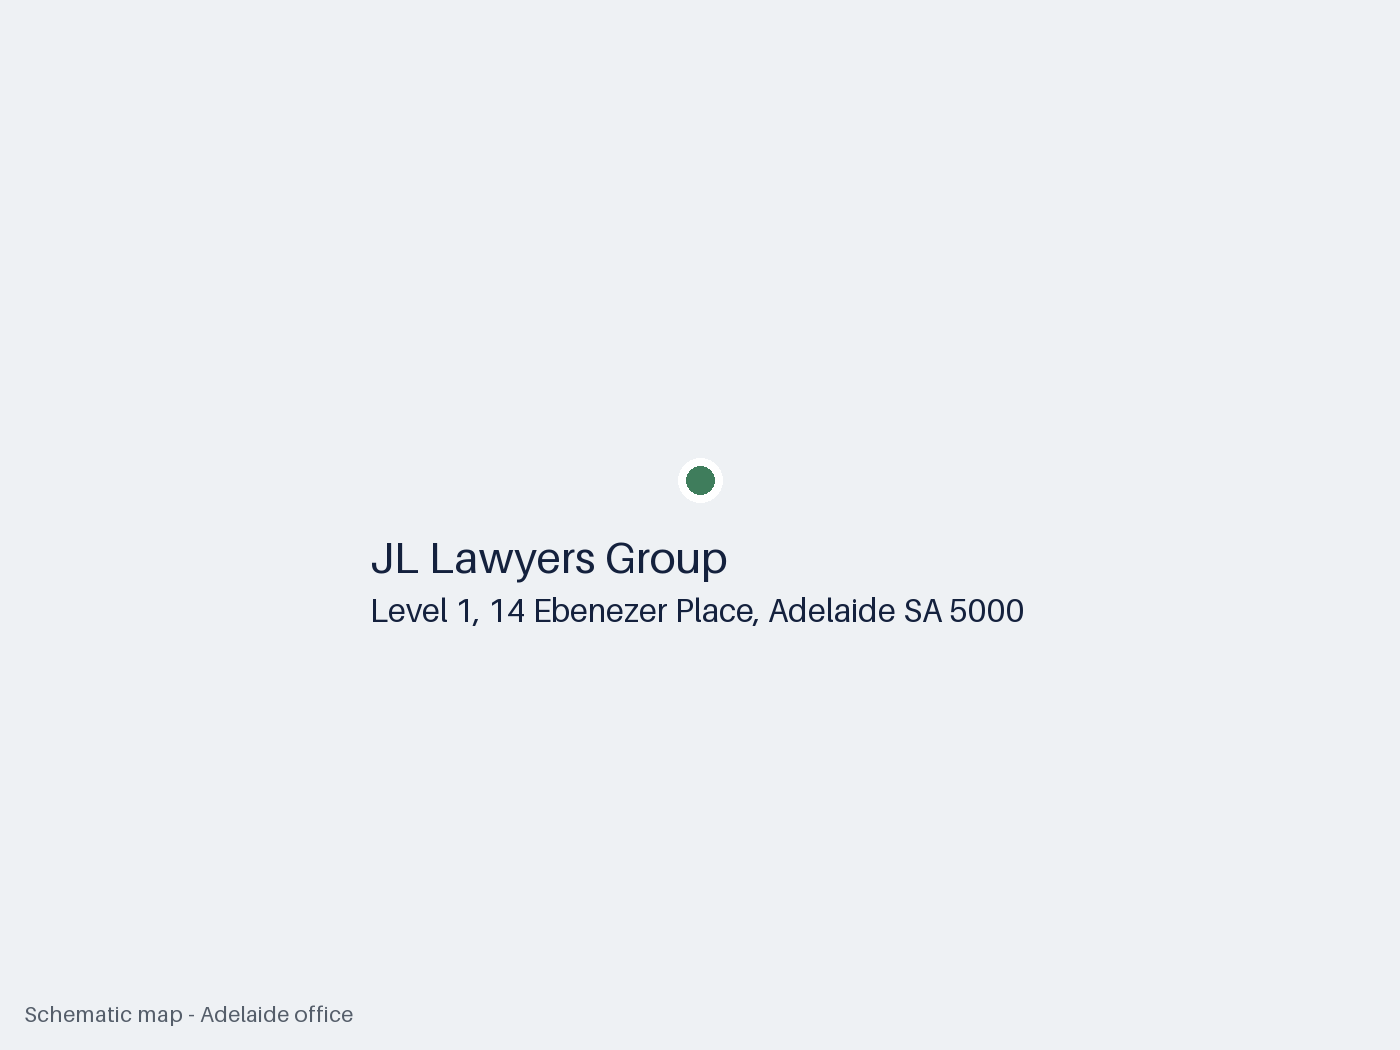
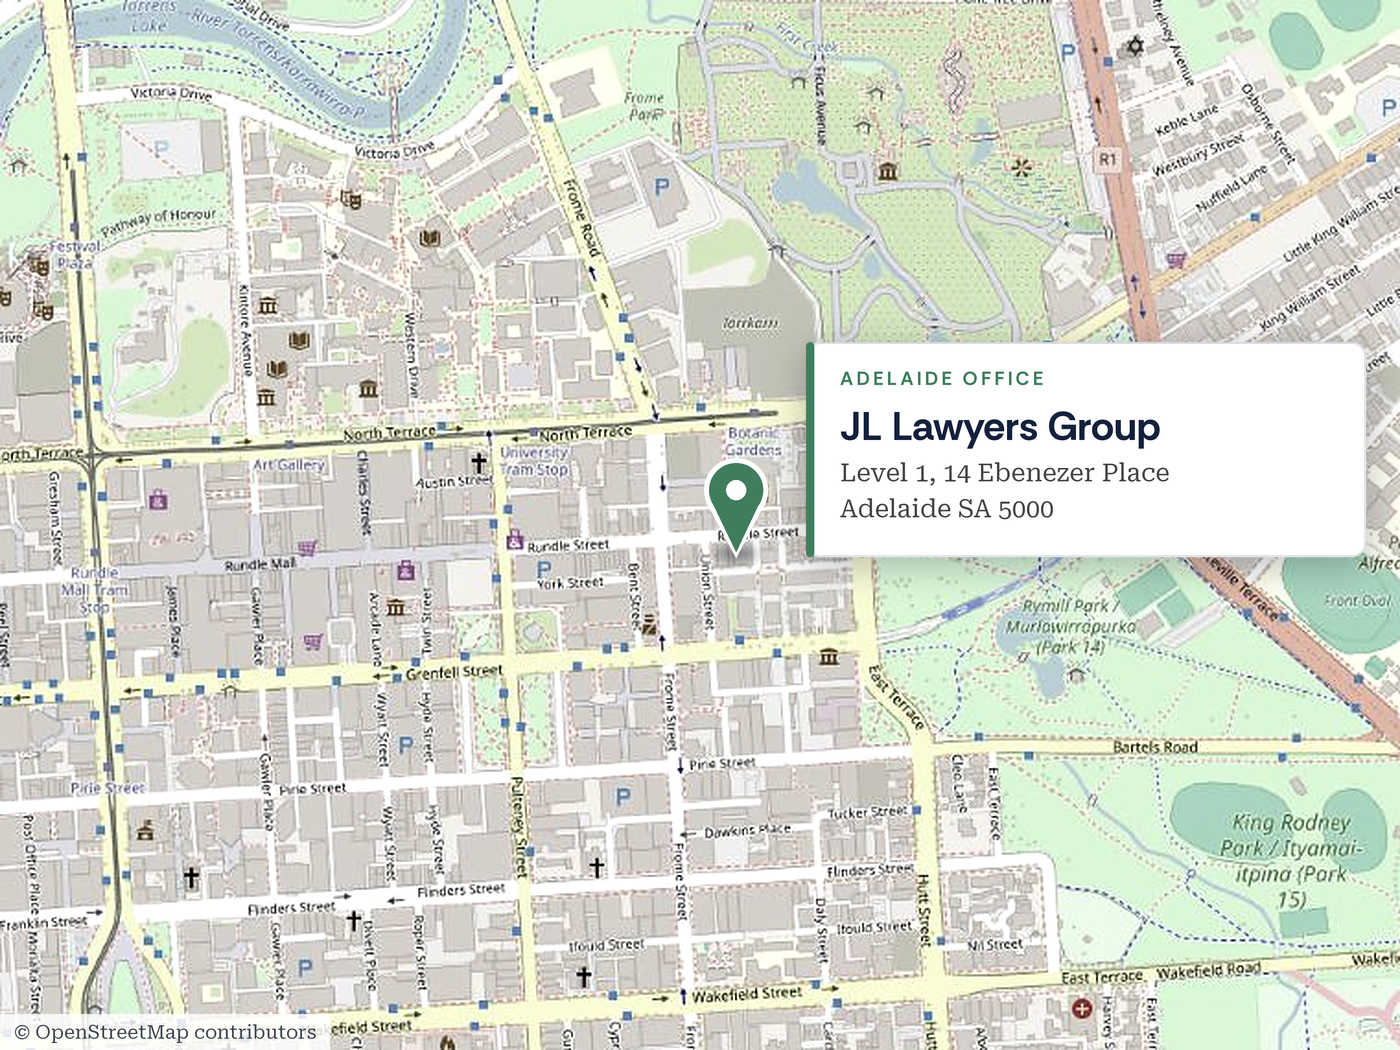
Replace placeholder static maps with real street maps for Berri and Adelaide offices (#3)
Berri map includes a Riverland regional inset. Base maps (c) OpenStreetMap contributors, attribution drawn on each image.

Claude-Session: https://claude.ai/code/session_01AHTzPsShcV4oL1Qr6Rkzay

diff --git a/src/components/home/service-area-map.tsx b/src/components/home/service-area-map.tsx
@@ -52,8 +52,8 @@ export function ServiceAreaMap({
 
   const fallback =
     variant === "adelaide"
-      ? { src: "/images/adelaide-static.png", alt: "Map showing JL Lawyers Group, Level 1, 14 Ebenezer Place, Adelaide" }
-      : { src: "/images/service-area-static.png", alt: "Map of the Riverland and Mallee region O'Briens Solicitors services, with Berri, Loxton, Barmera, Renmark, Waikerie, Pinnaroo and Adelaide marked" };
+      ? { src: "/images/adelaide-static.png", alt: "Street map of Adelaide city centre showing JL Lawyers Group, Level 1, 14 Ebenezer Place, Adelaide" }
+      : { src: "/images/service-area-static.png", alt: "Street map of Berri showing O'Briens Solicitors at 11 Riverview Drive, with an inset of the Riverland region marking Waikerie, Barmera, Renmark, Loxton and Berri" };
 
   return (
     <div
